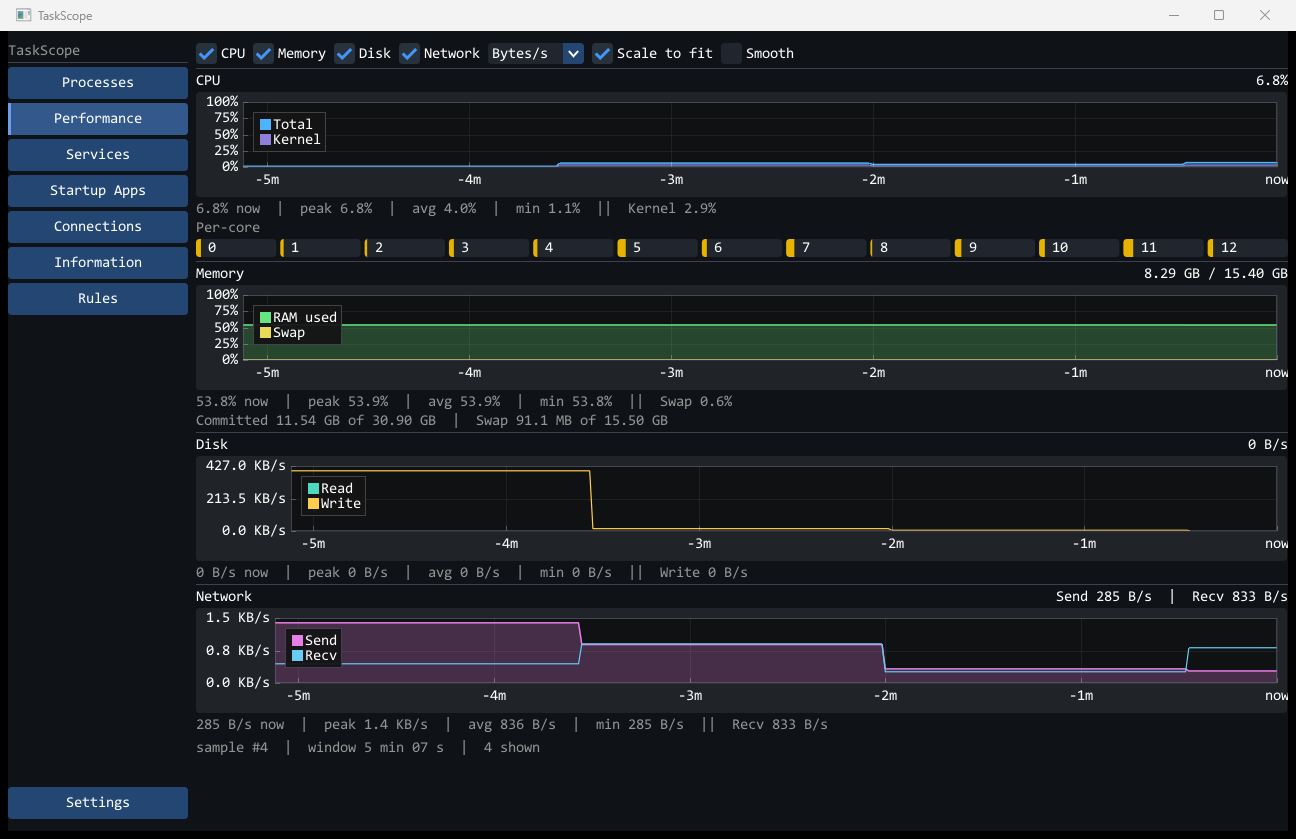
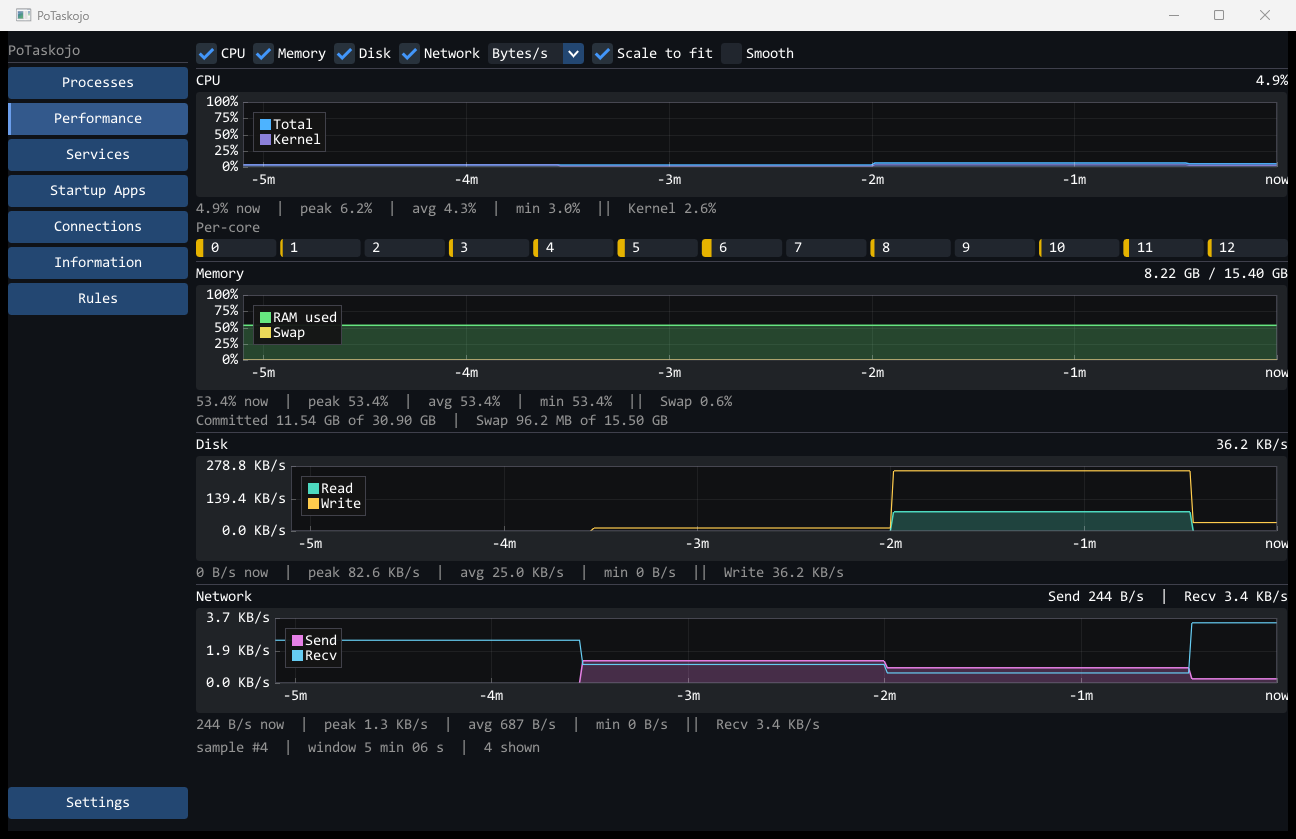
Rename the product to PoTaskojo
The executable, the window title, the tray tip and menu, the profile folder, the
single-instance mutex, the window class, the crash dump prefixes, the autostart
value and every user-visible sentence now carry the name the project is actually
published under.

The manifest's domain separator changes with them, and that is only possible
because no manifest has been published yet: once one is live the domain is part
of the format, and changing it would strand every build already in the field.
The signed test vector had to be regenerated for the same reason - the signature
covers the manifest bytes, and the manifest names both the domain and the
executable.

The profile was reset rather than migrated, and the screenshot helper now
creates the profile folder itself instead of assuming it already exists, which
is what let it run against a machine that had never seen the program.

Everything was checked from an empty build directory with warnings as errors,
all 60 tests, and a byte-level proof: applying these substitutions to each file
at HEAD reproduces the working tree exactly, so nothing outside the intended
replacements moved - line endings and the batch file's encoding included.

diff --git a/tests/test_update.cpp b/tests/test_update.cpp
@@ -26,8 +26,8 @@ const std::string kManifest =
     "sha256 0123456789abcdef0123456789abcdef0123456789abcdef0123456789abcdef\n";
 
 const std::string kSignature =
[2 lines of base64/hex data omitted]
+    "7d54ccfa70707a4e36e954f5cc364373d22d6a68a38edefae9105d0f8edec63"
[1 lines of base64/hex data omitted]
 
 }  // namespace
 
